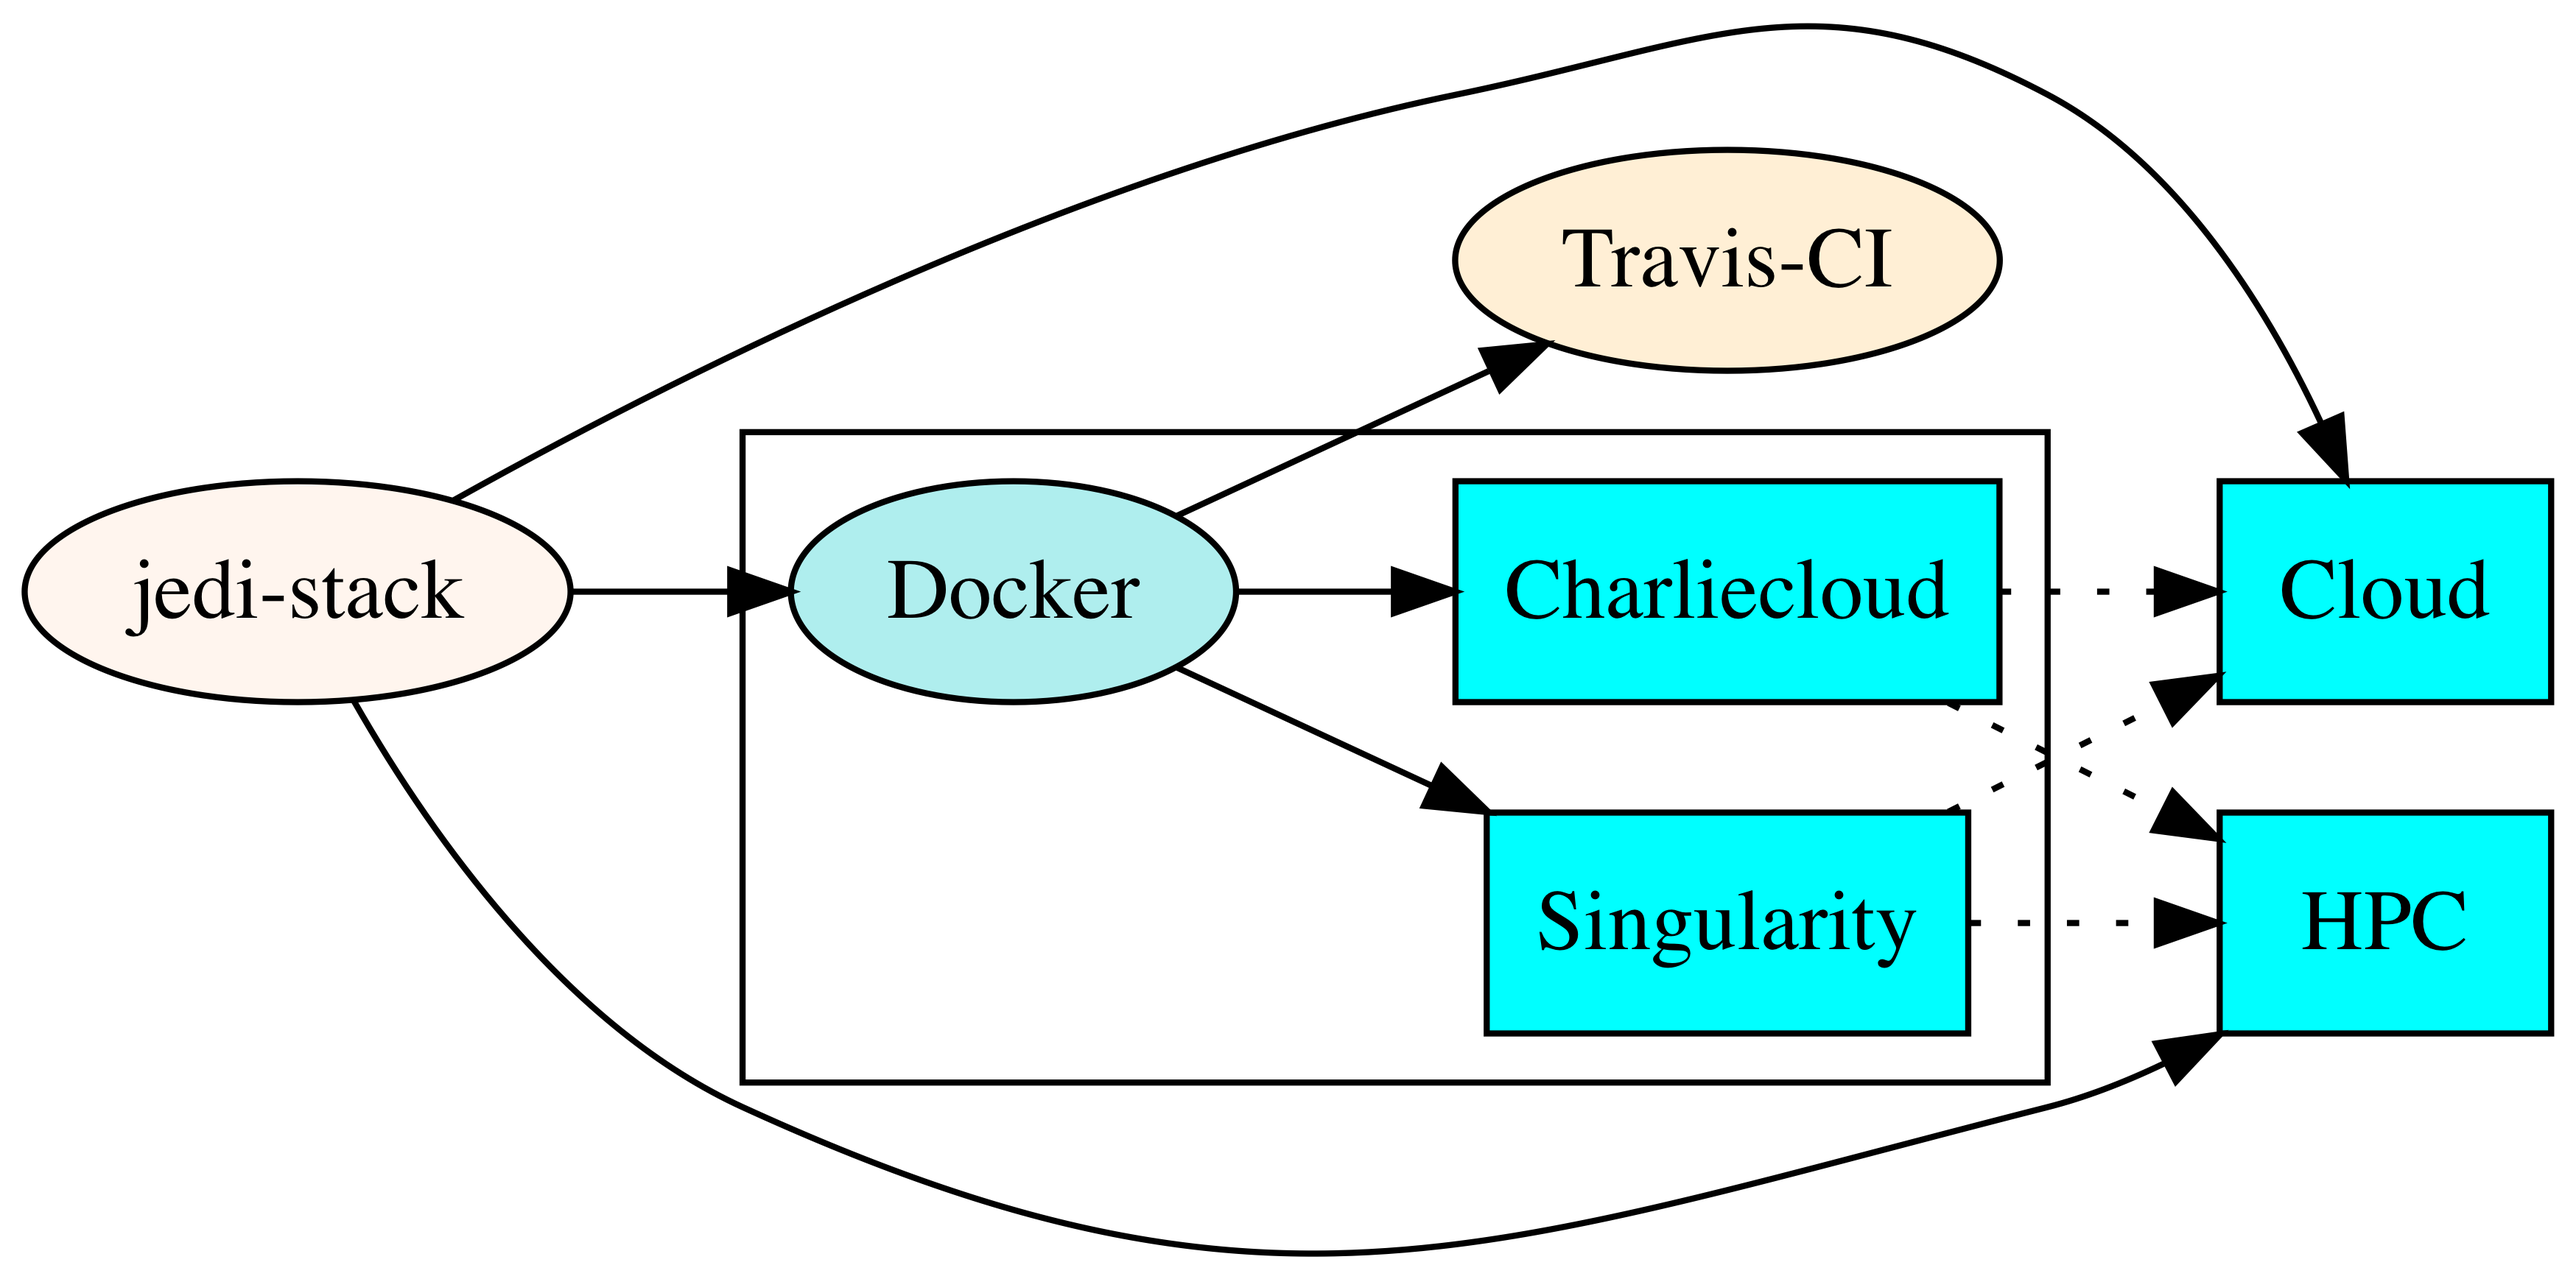
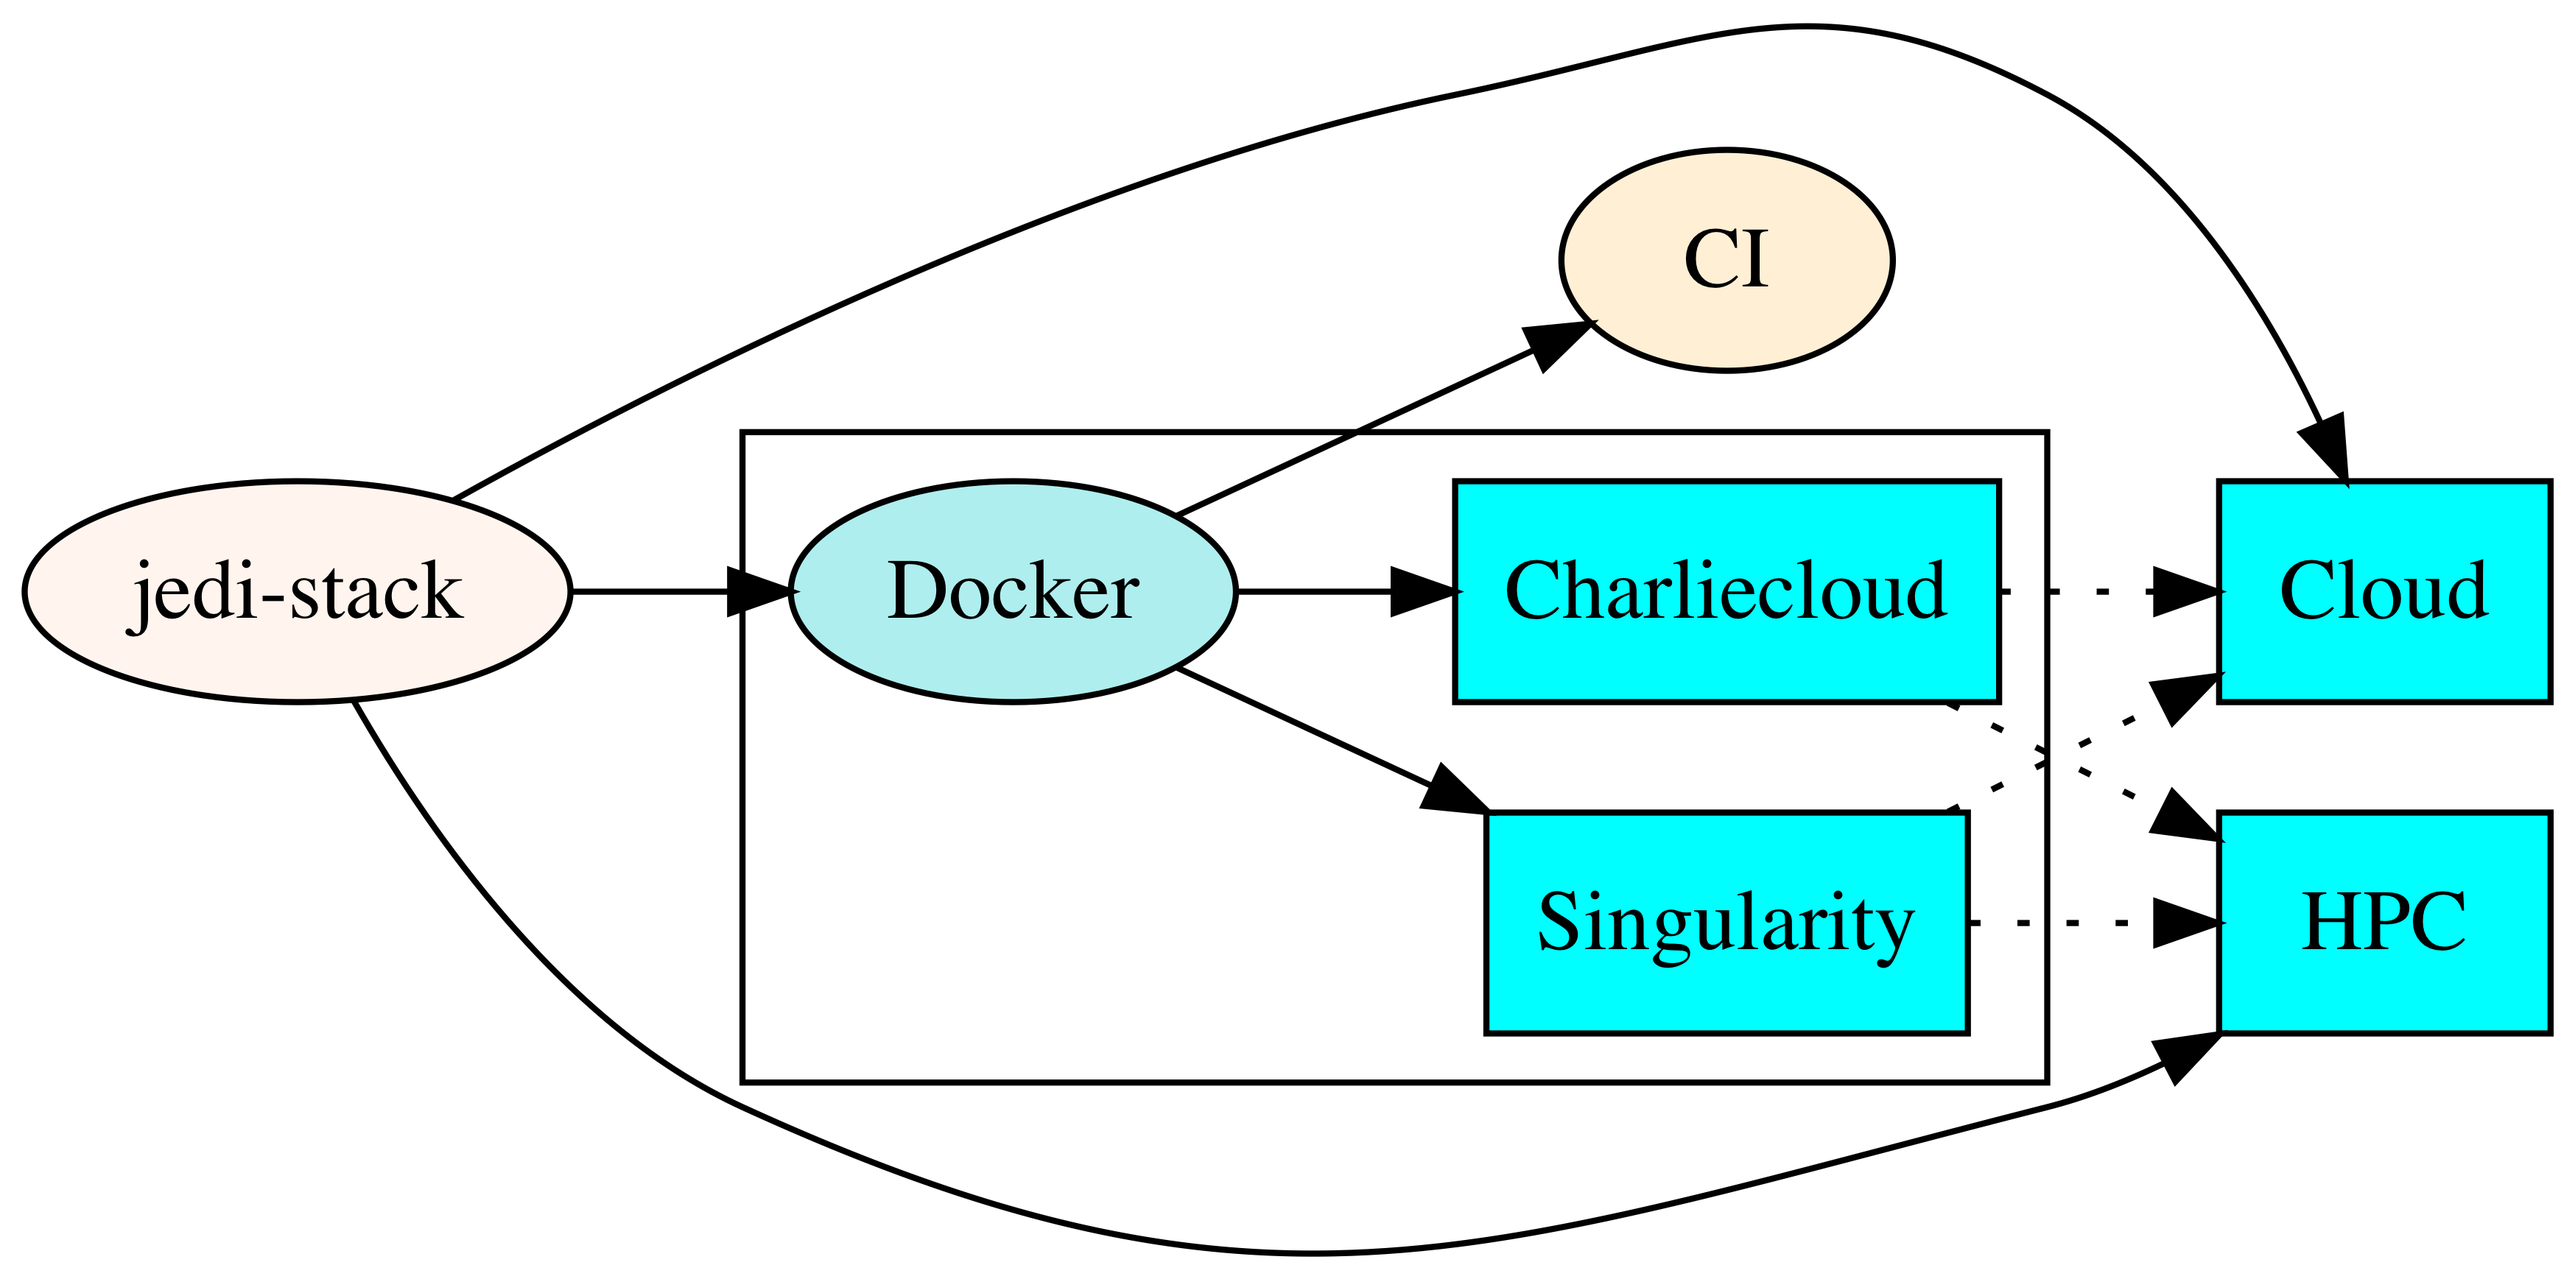
update Portability figure and list available containers

Changed region(s): [[0.5612, 0.0933, 0.7795, 0.3109], [0.6236, 0.715, 0.7171, 0.7461]]

diff --git a/docs/developer/jedi_environment/portability.rst b/docs/developer/jedi_environment/portability.rst
@@ -17,10 +17,10 @@ These portability tools are themselves unified in order to further promote commo
 
 .. image:: images/portability.png
 
-The (public) JCSDA `jedi-stack repository <https://github.com/JCSDA/jedi-stack>`_ contains common build scripts that specify the software packages, versions, and configuration options that are required to build and run jedi.  Tagged versions of the jedi-stack will be coordinated with public JEDI releases when they become available.  These build scripts are used to build a :ref:`Docker container <docker_overview>` that is in turn used to build Singularity and Charliecloud containers that can be run on laptops, workstations, cloud platforms, and HPC systems.  Alternatively, we also use the jedi-stack directly to build environment modules on cloud platforms (e.g. AMIs) and HPC systems.  We also leverage the Docker containers for continuous integration testing by means of `Travis-CI <https://travis-ci.org/>`_
+The (public) JCSDA `jedi-stack repository <https://github.com/JCSDA/jedi-stack>`_ contains common build scripts that specify the software packages, versions, and configuration options that are required to build and run jedi.  Tagged versions of the jedi-stack will be coordinated with public JEDI releases when they become available.  These build scripts are used to build a :ref:`Docker container <docker_overview>` that is in turn used to build Singularity and Charliecloud containers that can be run on laptops, workstations, cloud platforms, and HPC systems.  Alternatively, we also use the jedi-stack directly to build environment modules on cloud platforms (e.g. AMIs) and HPC systems.  We also leverage the Docker containers for continuous integration testing by means of `Amazon CodeBuild <https://aws.amazon.com/codebuild/>`_ and `Travis-CI <https://travis-ci.org/>`_
 
 In the remainder of this page, we describe in a bit more detail the rationale behind the use of software containers and how we use Docker.  :doc:`Singularity <singularity>`, :doc:`Charliecloud <charliecloud>`, and :doc:`environment modules <modules>` are then described in separate pages.   Stay tuned for further details on how to run JEDI in the cloud.
-	   
+
 .. _Software-Containers:
 
 Software Containers
@@ -28,15 +28,15 @@ Software Containers
 
 A working definition of a sofware container is **A packaged user environment that can be "unpacked" and used across different systems, from laptops to cloud to HPC**.
 
-So, given our overview of JEDI Portability and use cases :ref:`above <top-Containers>`, containers seem like an ideal fit.  
+So, given our overview of JEDI Portability and use cases :ref:`above <top-Containers>`, containers seem like an ideal fit.
 
-From a JEDI perspective, the main purpose of containers is **Portability**: they provide a uniform computing environment (software tools, libraries, compilers, etc) across different systems.  So, users and developers can focus on working with the JEDI code without worrying about whether their version of cmake is up to date or whether or not NetCDF was configured with parallel HDF5 support (for example).  
+From a JEDI perspective, the main purpose of containers is **Portability**: they provide a uniform computing environment (software tools, libraries, compilers, etc) across different systems.  So, users and developers can focus on working with the JEDI code without worrying about whether their version of cmake is up to date or whether or not NetCDF was configured with parallel HDF5 support (for example).
 
 But containers offer other advantages as well, including the following.
 
 **BYOE: Bring Your Own Environment**: Containers let JEDI masters pick and choose which software packages and versions to include and which configuration options will allow them to work optimally with the JEDI code.  So, there is no need for users and developers to deal with compatibility issues.
 
-**Reproducibility**:  Like the JEDI code itself, containers can be tagged with public releases so that specific results such as forecasts/reanalyses or numerical experiments can be reproduced.  For example, a researcher can specify the version of JEDI and the version of the container that was used in a particular publication so that others can reproduce the results presented.  `Singularity <https://journals.plos.org/plosone/article?id=10.1371/journal.pone.0177459>`_ takes particular care to ensure that results are reproducible. 
+**Reproducibility**:  Like the JEDI code itself, containers can be tagged with public releases so that specific results such as forecasts/reanalyses or numerical experiments can be reproduced.  For example, a researcher can specify the version of JEDI and the version of the container that was used in a particular publication so that others can reproduce the results presented.  `Singularity <https://journals.plos.org/plosone/article?id=10.1371/journal.pone.0177459>`_ takes particular care to ensure that results are reproducible.
 
 **Workflow**: Containers enable new JEDI users to get up and running quickly.  They enable users to do code development on laptops and workstations, saving valuable HPC resources for production runs.  And, they allow for the optimal support of particular use cases.  For example, **development containers** include binary dependencies together with the compiler and MPI library that they were build with.  Users/developers would then download the JEDI source code from GitHub and compile it within the container.  By contrast, **application containers** include the compiled JEDI source code and dependencies, without the compilers themselves, ready to run (*plug and play*).  For a list of currently available containers, consult the `Containers page on the JCSDA Data Repository <http://data.jcsda.org/pages/containers.html>`_.
 
@@ -48,7 +48,7 @@ In contrast to virtual machines, containers do not include the necessary softwar
 Docker
 ------
 
-The most popular container provider is `Docker <https://www.docker.com>`_.  This was introduced in 2013 and quickly became the industry standard, now supported by a wide variety of applications and computing platforms.  But Docker has a fatal design flaw that makes it unsuitable for High Performance Computing (HPC).  Namely, Docker containers run as a child process of a root daemon.  This poses severe security risks on HPC systems because it could allow users to escalate their access privileges.  This is unlikely to change because Docker was developed for business enterprise applications where this level of control is beneficial. `See Kurtzer et al (2017) for further discussion <https://journals.plos.org/plosone/article?id=10.1371/journal.pone.0177459>`_.  
+The most popular container provider is `Docker <https://www.docker.com>`_.  This was introduced in 2013 and quickly became the industry standard, now supported by a wide variety of applications and computing platforms.  But Docker has a fatal design flaw that makes it unsuitable for High Performance Computing (HPC).  Namely, Docker containers run as a child process of a root daemon.  This poses severe security risks on HPC systems because it could allow users to escalate their access privileges.  This is unlikely to change because Docker was developed for business enterprise applications where this level of control is beneficial. `See Kurtzer et al (2017) for further discussion <https://journals.plos.org/plosone/article?id=10.1371/journal.pone.0177459>`_.
 
 By contrast, :doc:`Singularity <singularity>` and :doc:`Charliecloud <charliecloud>` were developed by HPC professionals for HPC applications.  Singularity in particular includes HPC features such as native support for MPI schedulers (e.g. slurm) and GPU compute cores.  Furthermore, both Singularity and Charliecloud containers can be built from Docker containers (or, more appropriately, from Docker images, which are multi-layered files that spawn Docker containers).  So, this justifies the workflow in the diagram shown :ref:`above <top-Containers>`: our JEDI Singulary and Charliecloud containers are both generated from a common Docker image.
 
@@ -66,7 +66,40 @@ If you do decide to run the JEDI Docker containers directly, be sure to log in a
 
 .. code:: bash
 
-    docker run -u jedi --rm -it jcsda/docker-<name>:latest 
+    docker run -u jedi --rm -it jcsda/docker-<name>:latest
 
-    
+
 If you log in as root (the default) then the mpi tests will likely fail.
+
+Available Containers
+--------------------
+
+The public containers currently offered by jcsda include:
+
+    - :code:`gnu-openmpi-dev`
+    - :code:`clang-mpich-dev`
+
+Containers that include :code:`-dev` in their name are development containers as described :ref:`above <top-Containers>`.  This means that they contain the JEDI dependencies and compilers but not the JEDI code itself.
+
+If you have it available, we recommend the use of Singularity.  To obtain the Singularity versions of these containers enter
+
+.. code:: bash
+
+   singularity pull library://jcsda/public/jedi-<name>
+
+where :code:`<name>` is one of the items from the list above.
+
+To obtain the Charliecloud versions of these containers, enter:
+
+.. code:: bash
+
+   wget http://data.jcsda.org/containers/ch-jedi-<name>.tar.gz
+
+
+The docker versions of these containers are also available on the jcsda organization on `Docker Hub <https://hub.docker.com/>`_ as :code:`docker-<name>`.
+
+For an up to date listing of all available JEDI singularity containers `go to the jcsda organization on the Sylabs cloud library web site <https://cloud.sylabs.io/library/jcsda>`_ and view the :code:`public` collection.
+
+Similarly, for an up to date listing of all available JEDI docker containers, search the :code:`jcsda` organization on Docker Hub.
+
+We also maintain Docker, Singularity, and Charliecloud development containers with Intel Parallel Studio 2020 but these are restricted access for proprietary reasons.  Contact the JEDI core team for further information.
